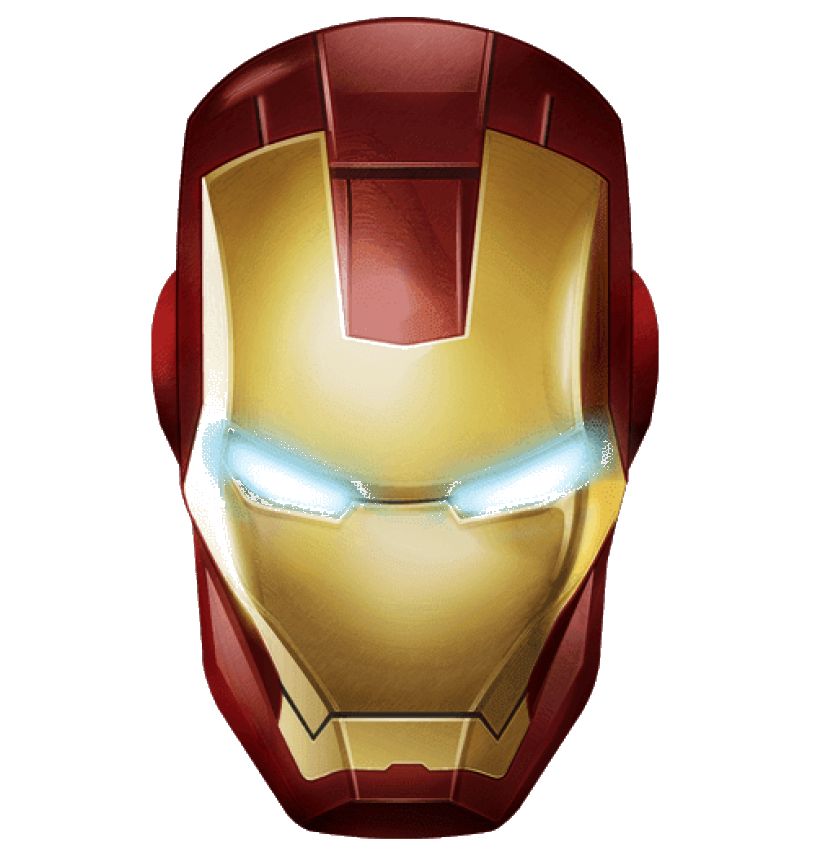
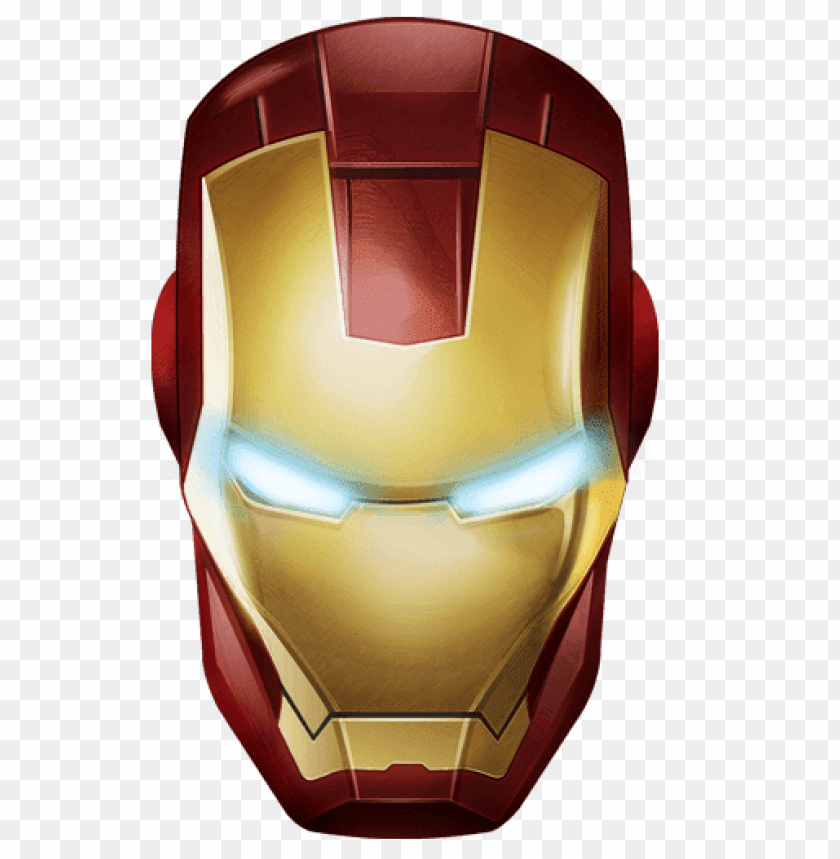
Use raw helmet image for hover mask and fix back-to-top scroll

diff --git a/css/style.css b/css/style.css
@@ -269,6 +269,9 @@ li {
   --drift-x: 0px;
   --drift-y: 0px;
   --ring-size: 210px;
+  --helmet-w: 300px;
+  --helmet-x: 70px;
+  --helmet-y: 90px;
   margin: 0;
   padding: 1.05rem;
   border-radius: 24px;
@@ -315,11 +318,11 @@ li {
   transition: opacity 0.2s ease, transform 0.22s ease;
   z-index: 2;
   pointer-events: none;
-  background-image: url("../images/ironman-hover.jpg");
-  background-size: var(--portrait-w) var(--portrait-h);
+  background-image: url("../images/ironman-mask-overlay.png");
+  background-size: calc(var(--helmet-w) * 1.02) auto;
   background-position:
-    calc(var(--trail-left) * -1)
-    calc(var(--trail-top) * -1);
+    calc(var(--helmet-x) - var(--trail-left))
+    calc(var(--helmet-y) - var(--trail-top));
   background-repeat: no-repeat;
   filter: blur(2px) saturate(1.24);
   mix-blend-mode: screen;
@@ -352,11 +355,12 @@ li {
     0 0 30px rgba(85, 210, 255, 0.22);
   background-image:
     radial-gradient(circle at 65% 15%, rgba(255, 255, 255, 0.27), rgba(255, 255, 255, 0) 45%),
-    url("../images/ironman-hover.jpg");
-  background-size: var(--portrait-w) var(--portrait-h);
+    url("../images/ironman-mask-overlay.png");
+  background-size: auto, var(--helmet-w) auto;
   background-position:
-    calc(var(--reveal-left) * -1)
-    calc(var(--reveal-top) * -1);
+    0 0,
+    calc(var(--helmet-x) - var(--reveal-left))
+    calc(var(--helmet-y) - var(--reveal-top));
   background-repeat: no-repeat;
   filter: saturate(1.08) contrast(1.07);
   pointer-events: none;
@@ -411,11 +415,10 @@ li {
   z-index: 2;
   pointer-events: none;
   transition: opacity 0.25s ease;
-  background:
-    radial-gradient(circle at 50% 85%, rgba(112, 232, 255, 0.3), rgba(112, 232, 255, 0) 35%),
-    url("../images/ironman-hover.jpg");
-  background-size: cover;
-  background-position: center;
+  background-image: url("../images/ironman-mask-overlay.png");
+  background-size: var(--helmet-w) auto;
+  background-position: var(--helmet-x) var(--helmet-y);
+  background-repeat: no-repeat;
 }
 
 @keyframes blob-morph {

diff --git a/js/main.js b/js/main.js
@@ -1,5 +1,6 @@
 const menuToggle = document.getElementById("menuToggle");
 const siteNav = document.getElementById("siteNav");
+const backToTopLinks = document.querySelectorAll('a[href="#top"]');
 
 if (menuToggle && siteNav) {
   menuToggle.addEventListener("click", () => {
@@ -11,6 +12,18 @@ if (menuToggle && siteNav) {
     link.addEventListener("click", () => {
       siteNav.classList.remove("is-open");
       menuToggle.setAttribute("aria-expanded", "false");
+    });
+  });
+}
+
+if (backToTopLinks.length > 0) {
+  backToTopLinks.forEach((link) => {
+    link.addEventListener("click", (event) => {
+      event.preventDefault();
+      window.scrollTo({ top: 0, behavior: "smooth" });
+      if (history.replaceState) {
+        history.replaceState(null, "", `${location.pathname}${location.search}`);
+      }
     });
   });
 }
@@ -87,6 +100,9 @@ if (heroPortrait && portraitStage) {
 
     heroPortrait.style.setProperty("--portrait-w", `${rect.width}px`);
     heroPortrait.style.setProperty("--portrait-h", `${rect.height}px`);
+    heroPortrait.style.setProperty("--helmet-w", `${rect.width * 0.68}px`);
+    heroPortrait.style.setProperty("--helmet-x", `${rect.width * 0.16}px`);
+    heroPortrait.style.setProperty("--helmet-y", `${rect.height * 0.18}px`);
     heroPortrait.style.setProperty("--reveal-size", `${revealSize}px`);
     heroPortrait.style.setProperty("--reveal-left", `${revealLeft}px`);
     heroPortrait.style.setProperty("--reveal-top", `${revealTop}px`);
